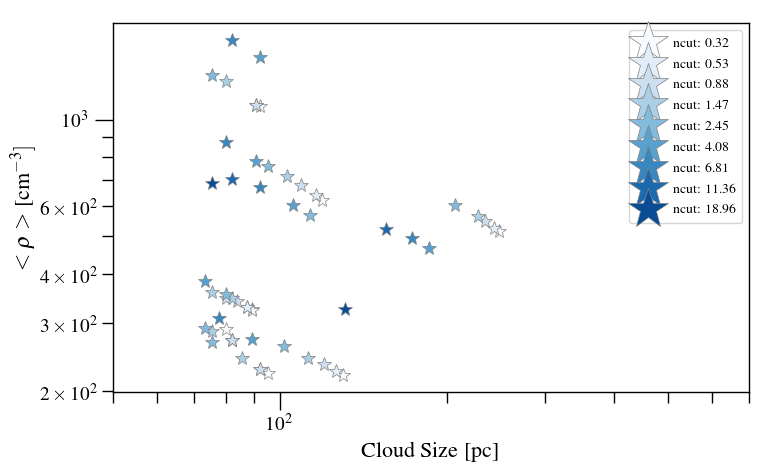
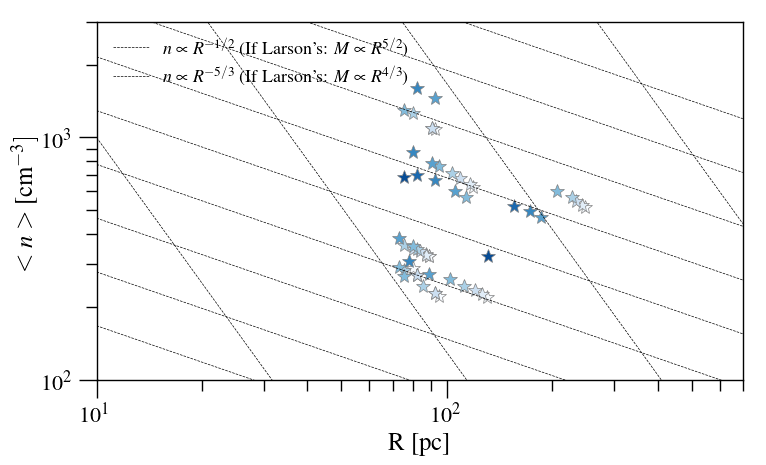
revisde

diff --git a/WRITEUP/ms.tex b/WRITEUP/ms.tex
@@ -57,28 +57,34 @@
 
 \begin{abstract}
 %mm rearranged sentence
-We study the properties of molecular cloud complexes (MCCs) in a cosmological zoom-in simulation of a
-prototypical galaxy (``\flower'') at redshift $z\simeq 6$.
+We study the properties of molecular cloud complexes (MCCs) using cosmological zoom-in simulation of a
+$z\simeq 6$ prototypical galaxy (``\flower'').
 %
-We identify MCCs using an H$_2$ density-based clump finder, and compare their mass, size, velocity dispersion, gas surface density, and virial parameter ($\alpha_{\rm vir}$) with those observed in nearby and \z$\lesssim 2$ galaxies.
+We identify MCCs using an H$_2$ density-based clump finder, and compare their mass, size, velocity dispersion, gas surface density, and virial parameter 
+to \obs.
 %
-In \flower, MCC masses are in the range $10^{5.5-8.5}$\,\Msun, and have sizes $R\lesssim200$\,pc. Their velocity dispersion and gas surface density are systematically higher than those observed in nearby galaxies, but comparable to starburst galaxies.
-%
-We identify gravitationally unstable MCCs both via an effective, two-component Toomre $Q_{\rm eff}$ parameter
-%mm (gas+stars),
-    taking into account both gas and stars,
-and by using a more observationally accessible $\alpha_{\rm vir}$ analysis. We find that MCCs in the main disk of \flower are globally stable, but their internal substructures have low $\alpha_{\rm vir}$ and $Q_{\rm eff}$ values, indicative of
-%mm
-    instability to gravitational
+In \flower, MCC masses are in the range of $10^{5.5-8.5}$\,\Msun, with sizes $R\lesssim200$\,pc. 
+% 
+We identify gravitationally unstable MCCs both via Toomre $Q_{\rm eff}$ analysis and
+the more observationally accessible virial parameter ($\alpha_{\rm vir}$) analysis. 
+MCCs in the main disk of \flower are globally stable, but their internal substructures have low $\alpha_{\rm vir}$ and $Q_{\rm eff}$ values, indicative of
+instability to % gravitational 
 collapse.
 %
-%Our results suggest that the more massive and bigger MCs compared to the Milky Way manifest from the
-%higher gas mass fraction, surface density, and velocity dispersion.
-% , which together sets the scale for fragmentation.
-\AF{Abstract is a bit thin. Revise at the end}
-High resolution imaging of the first galaxies with the Atacama Large (sub-)Millimeter Array (ALMA) and the Next Generation Very Large Array (ngVLA) can furnish
-%mm scrutinizing
-data to test our findings and shed light on \SF since the cosmic dark ages.
+Their velocity dispersion and gas surface density are systematically higher than those observed in nearby galaxies, but comparable to starburst galaxies.
+% 
+We show that large-scale rotation is an important contributor to the velocity dispersion of MCCs, even in the highly disturbed phase of \flower, posing 
+a challenge to the interpretation of molecular gas dynamics in \highz galaxies in the literature.
+% Thus, velocity dispersions measured on similar scales (even down to 40\,pc) should not be taken as a direct 
+% evidence that \highz molecular gas are intrinsically more turbulent than the local ISM, 
+% unless contributions from bulk motions are properly accounted for.
+% 
+%Close resemblance of $Q_{\rm eff}$ and $Q_{\star}$ maps illustrates the importance of accounting for stellar contribution and disk thickness when 
+%examining the stability of molecular gas structures, especially in relatively evolved and enriched systems at high redshift 
+%that are preferentially being observed now.
+% 
+High resolution imaging of the first galaxies with the Atacama Large (sub-)Millimeter Array (ALMA) and the Next Generation Very Large Array (ngVLA) on
+$\lesssim$40\,pc are necessary to shed light on the star-forming gas dynamics since the cosmic dark ages.
 \end{abstract}
 \keywords{methods: data analysis --
           galaxies: high-redshift --
@@ -610,8 +616,6 @@ where we adopt $\mu = 2.5$ as the mean molecular weight.
 We show in \Fig{MR} the size-mass relation of the MCCs of \flower compared to observational data of molecular clouds associated with massive \SF in the
 Milky Way \citep{Beuther02a, Mueller02a, Hill05a, Motte07a} and an empirical relation obtained for massive \SF based on Milky Way clouds ($<$10\,\Msun; \citealt{Kauffmann10b, Kauffmann10c} and references therein): $M \gtrsim 870(R/{\rm pc})^{4/3} M_\odot$.
 Motivated by \obs, we overplot lines of constants $A_V$ in the same plot.
-As shown in the figure, MCCs of \flower lie along the locus of $A_V \simeq 8.9$ clouds observed by
-\citet{Lombardi10a} in the MW.
 Further discussions on the interpretation of this is provided in \Sec{MR}.
 %
 %The values of $A_V$ inferred from http://adsabs.harvard.edu/abs/2017MNRAS.471.5018F
@@ -680,8 +684,8 @@ for the virial parameter, where the most relevant phases are shown in \Fig{alpha
 
 \subsection{Comparing MCC Observable Quantities to Observations} \label{sec:diss1}
 
-In this section, we compare the observable quantities of MCCs obtained from the simulations (e.g., $\sigma$, $R$, $M_{\rm gas}$,
-$\Sigma{\rm gas}$) with those of molecular gas structures from \obs at.
+In this section, we compare the observable quantities of MCCs obtained from the simulations (e.g., $\sigma_{\rm gas}$, $R$, $M_{\rm gas}$,
+$\Sigma_{\rm gas}$) with those of molecular gas structures from \obs at.
 Excluding the biggest MCC identified in each evolutionary stage (i.e., the top right cluster of points in the
 linewidth-size relation of \Fig{larsons_single} and the top left panel of \Fig{alpha16-28}), which correspond to
 the main disk of \flower, the MCCs of \flower have dynamics largely similar to those observed in
@@ -689,10 +693,10 @@ $z$\ssim2 spatially resolved studies of gas-rich star-forming
 galaxies, in terms of their velocity dispersions, sizes, and gas
 surface densities (\Fig{larsons_single}; see e.g.,
 \citealt{Swinbank11a}), with sizes of the order of $R\simeq$\,100\,pc
-and velocity dispersions of $\sigma\simeq$\,20$-$80\,\kms.
+and velocity dispersions of $\sigma_{\rm gas}\simeq$\,20$-$80\,\kms.
 Their velocity dispersions are also comparable to those observed in the inner
 Milky way and nearby gas-rich galaxies (e.g., M64; \citealt{Oka01a, Rosolowsky05a, Heyer09a}), which lies along the
-locus of $\sigma\propto R^{0.56}$.
+locus of $\sigma_{\rm gas}\propto R^{0.56}$.
 Such high velocity dispersions and surface densities can be explained partly because
 these MCCs are located in the nuclear regions of the galaxy, where the potential well is the deepest,
 and also from the injection of kinetic energy from recent
@@ -742,12 +746,6 @@ should not be taken as direct evidence that these structures at high redshifts a
 The local sound speed of all identified molecular complexes is typically much smaller than their non-thermal (turbulent) velocities,
 as non-thermal pressure dominates thermal pressure for dense gas \citep{Pallottini17b}, i.e. $c_s^2 \ll \sigma_{\rm NT}^2$.
  In particular, the Mach number averaged on the the MCCs distribution at the highest density threshold is $\mathcal{M} \simeq6$; this is consistent with the analysis done in \citep{Vallini18a}, that finds a global Mach number of $\mathcal{M} \sim 10$ for \flower.
- % 
- Note that the bulk velocity dispersion $\sigma_{\rm bulk}$ is typically comparable to the non-thermal term $\sigma_{\rm NT}$, 
-as the two are connected via the Euler equation, but this depends on the evolutionary stage of \flower (\Fig{vv}).
-%
-%\footnote{Velocity dispersions calculated from velocity field are comparable to those calculated from the pressure field indicating that contribution from shear is unlikely to dominate the velocity dispersions of the smaller MCCs identified, especially at the highest $n_{\rm ncut}$.\label{ftn:veldisp}}.
-
 % allss: 0.32
 % In [13]: print(get_Mach_all_clouds(ss11))
 %[10.62623949  3.10713402  7.0525831   3.336829   10.36052827  7.24157821
@@ -773,21 +771,21 @@ as the two are connected via the Euler equation, but this depends on the evoluti
 % see also e.g., test_brute/leaf_fields_ss16-28/18.96_10_fields/Mach_cloud-mass.png
 % This is consistent with the global analysis done on \flower by \citet{Vallini18a}.
 
-We compare the gas velocity dispersion from bulk motions versus turbulent motions for MCCs in the accreting
+
+We show the gas velocity dispersions from bulk motions versus turbulent motions for MCCs in the accreting
 and quiescent phase in \Fig{vv}. We note that \flower displays a disturbed morphology in the accreting phase
 but a disk-like morphology in the quiescent phase
 (see \Fig{MCC} and \Fig{MCC28}).
 Most MCCs in the accreting phase have turbulent velocity dispersions higher than the bulk motion velocity dispersions,
-whereas the opposite is true in the quiescent phase. In addition, the two velocity dispersion terms are of the same order of magnitude.
-
-We note that \citet{Behrendt16a} similarly concluded that large scale bulk motion may mimic turbulent velocity dispersion 
-due to beam smearing even though the self-rotation of each individual sub-MCCs is washed out.
-
+whereas the opposite is true in the quiescent phase. 
+In addition, the two velocity dispersion terms are of the same order of magnitude. % as the two are connected via the Euler equation
 {\em This indicates that gas velocity dispersions observed on similar physical scales and resolutions as presented here
 have an important contribution from large-scale rotation.} Hence, the linewidths observed in \highz molecular gas structures
 on these scales should {\em not} be taken as a direct evidence they are intrinsically more turbulent than those in the local ISM,
 and the comparison and interpretation of the dynamics of gas structures with local clouds using e.g., the Larson's relations is non-trivial.
-
+\citet{Behrendt16a} draw a similar conclusion using pc-scale resolution simulation: 
+large-scale bulk motions may mimic turbulent velocity dispersion due to  
+beam smearing, even though contributions due to self-rotation of each individual sub-MCCs is washed out within the beam.
 
 \subsection{Is the Mass-Size Relation an Observational Artifact?} \label{sec:MR}
 The MCCs of \flower lie below the locus of $A_V$\eq100\,mag followed
@@ -806,17 +804,14 @@ sufficient column density to form CO.
 In the mass-size relation plot (\Fig{MR}), the color of a given MCC darkens to the bottom-left direction as $n_{\rm cut}$ increases.
 This makes sense from simply the fact that smaller MCCs have smaller masses.
 However, what does it mean for them to lie on the same locus?
-% is it what Jen's proposed? Or is it's just a result of $\rho\propto M R^{-3}$ (and $\rho$ is independent of R)
-% and observational bias (selection effect due to projection in 2D, so $\rho \propto N_H R^{-1}$, where $N_H$ is a
-% constant due to gas tracer) (i.e., middle and bottom panels of Fig 9 in BM02)?
 
 The \citet{Kauffmann10c} relation suggests that regions with high-mass \SF follow
 an ``internal'' mass-size relation, where $M\propto R^{1.33}$.
-If this holds for the MCCs of \flower, an extrapolation of the \citet{Kauffmann10c} relation down to $\sim$1\,pc would correspond
-to structures with masses and sizes comparable to those of the cores found in regions of high-mass \SF.
-If constant column density (Larson's third law) is truly a fundamental properties of molecular clouds,
-one interpretation of this would be the MCCs of \flower are capable of high-mass \SF given that they share similar internal structures as
-regions of massive \SF.
+%If this holds for the MCCs of \flower, an extrapolation of the \citet{Kauffmann10c} relation down to $\sim$1\,pc would correspond
+%to structures with masses and sizes comparable to those of the cores found in regions of high-mass \SF.
+%If constant column density (Larson's third law) is truly a fundamental properties of molecular clouds,
+%one interpretation of this would be the MCCs of \flower are capable of high-mass \SF given that they share similar internal structures as
+%regions of massive \SF.
 %\MM{And is thus inconsistent with the variation in $\sigma^2/R$ with
 %  $\Sigma$.  Effectively, Larson's mass-size relation is a single
 %  point on that relationship, at the constant $\Sigma$ value.  }
@@ -825,7 +820,7 @@ with a certain tracer (e.g., \citealt{Ballesteros11}).
 That is, it is solely a result of $\rho\propto M R^{-3}$.
 For instance, \citet{Ballesteros02a} show that the density
 of clouds ($\rho$) is independent of their size ($R$) when one properly extract these quantities in three-dimensional space instead of
-two-dimensional space, as is done in \obs.
+two-dimensional space; the latter is done in \obs.
 When they project the clouds into two-dimensional space and measure the densities and sizes of clouds for a given
 line tracer, they find $\rho \propto R^{-1}$, which is unsurprising since $N_H$ is just a constant.
 They therefore argue that the mass-size relation is simply a result of $\rho\propto M R^{-3}$
@@ -835,22 +830,24 @@ observational studies). % where $\rho$ would be proportional to $R^{-1/2}$
 % naturally display a linear relationship in $\log M - \log R$ plot.
 
 % the widespread in density for a given R.
-We show the density-size relation ($\rho - R$) relation of MCCs of \flower in \Fig{rho}.
-The interpretation of this figure is not that MCCs with small $R$ are found at high $n_{\rm cut}$ and large $R$ at low $n_{\rm cut}$, nor is that
-the density of MCCs is independent of $R$. Rather, it is as we increase the density threshold $n_{\rm cut}$, MCCs break into smaller MCCs and
-form the cluster of points that are to the top left of the parent MCC identified at a lower density threshold.
-\DL{This is puzzling to me why we are seeing some really steep relationship between $\rho$ and $R$, almost $\rho \propto R^{-6}$
-even though we are identifying the structures in 3D just like what BM02 did.}
+We show the mass-weighted number density-size relation relation of MCCs of \flower in \Fig{n}.
+As we increase the density threshold $n_{\rm cut}$, MCCs break into smaller MCCs and
+form the cluster of points that are to the top left of the parent MCC identified at a lower density threshold. 
+Following \citet{Ballesteros02a}'s argument, we expect the density 
+of MCCs to be independent of the cloud size (since they are identified in 3D-space).
+On the other hand, if the Larson's third relation holds ($M \propto R^{x}$, where $x\in[4/3, 2.5]$; e.g., \citealt{Lombardi10a}),
+we expect the density to scale as $n\propto R^{x}$, where $x\in[-1/2, -5/3]$. 
+As shown in \Fig{n}, the density of MCCs scales inversely with the MCC size, which would support Larson's relation.
 
 \begin{figure}
 \centering
 \includegraphics[trim=0 0 0 0, clip, width=0.5\textwidth]{\figpath/weighted-density_size-pc_ss16}
-\caption{Density and size of MCCs in the accreting phase of \flower.
-At higher $n_{\rm cut}$, MCCs are broken into smaller MCCs and
+\caption{Mass-weighted gas density and size of MCCs in the accreting phase of \flower.
+At higher $n_{\rm cut}$ (darker color), MCCs are broken into smaller MCCs and
 form the cluster of points that are to the top left of the parent MCC identified at a lower density threshold. 
 See also \Fig{MR} for the corresponding mass-size relation of MCCs of \flower. 
-\AP{$\rho \rightarrow n$}
-\label{fig:rho}}
+For consistency of our notation throughout this paper, we show $n$ on the y-axis for density.
+\label{fig:n}}
 \vspace{0.5em}
 \end{figure}
 
@@ -967,13 +964,13 @@ and their temporal evolution using the state-of-the-art cosmological zoom-in sim
 which include a chemical network to determine the formation of molecular hydrogen, heating and cooling of the ISM by
 UV radiation and metal lines, and detailed stellar feedback.
 Properties of \flower are briefly summarized in \Sec{sim}.
-We use a three-dimensional clump-finding algorithm to identify MCCs and their sub-structures.
+We use a three-dimensional clump-finding algorithm to identify MCCs.
 We decompose the molecular structures into non-overlapping objects by identifying a set of
-density contours with varying cutoff densities at multiple evolutionary stages.
+density contours with varying densities at multiple evolutionary stages.
 Most notably, the accreting phase, starburst phase, and quiescent phase.
 We extract properties such as mass, size, Mach number, velocity
 dispersion, gas surface density, and virial parameter ($M_{\rm gas}, R, \mathcal{M},
-\sigma, \Sigma_{\rm gas}, \alpha_{\rm vir}$) for each MCC and perform a Toomre-$Q$ stability analysis on \flower.
+\sigma_{\rm gas}, \Sigma_{\rm gas}, \alpha_{\rm vir}$) for each MCC and perform a Toomre-$Q$ stability analysis on \flower.
 
 
 The sizes of MCCs are dependent on the choice of $n_{\rm cut}$,
@@ -988,7 +985,7 @@ reported in idealized closed-box isolated galaxy simulations done at higher reso
 However, the IGM and merger and accretion histories are not properly modeled in such simulations.
 That said, the similar mass range found in MCCs of \flower\ is
 reassuring --- our results are not far off despite the resolution limit ($l_{\rm cell}\simeq$\,30\,pc).
-On the other hand, the gas velocity dispersion $\sigma$ is rather insensitive to the adopted density threshold.
+On the other hand, the gas velocity dispersion $\sigma_{\rm gas}$ is rather insensitive to the adopted density threshold.
 
 We compare several observable quantities that reflect the dynamics of MCCs in \flower to those
 observed in the Milky Way disk, the Galactic center, and
@@ -998,7 +995,7 @@ This comparison is done for different evolutionary stages of \flower.
 MCCs of \flower are found to have velocity dispersion and gas surface density systematically higher than
 Milky Way clouds regardless of the density threshold $n_{\rm cut}$ adopted.
 These MCCs are, in fact, highly supersonic (with high Mach numbers).
-Their velocity dispersions are comparable to those observed in $z$\ssim2 starburst galaxies ($\sigma\simeq200$\,\kms); however,
+Their velocity dispersions are comparable to those observed in $z$\ssim2 starburst galaxies ($\sigma_{\rm gas}\simeq200$\,\kms); however,
 comparing the velocity dispersions of MCCs from bulk motions versus turbulence
 indicates that large-scale rotation is an important contributor, even in the
 accreting phase of \flower, which displays a highly disturbed morphology.
@@ -1054,9 +1051,11 @@ This means that caution should be taken when interpreting observational data,
 albeit the impressive resolution and sensitivity that are unprecedented.
 %Careful consideration of large-scale motions is required
 %when interpreting the observed data in order to understand the origin of star formation activity in galaxies at EoR.
-It is thus currently unclear whether \highz molecular gas structures are truly intrinsically more turbulent than those in the local ISM.
-This will become clearer in the next few years as deeper and higher resolution imaging of
-molecular gas at \highz are observed with ALMA and NOrthern Extended Millimeter Array (NOEMA).
+Thus, with the resolution provided by existing data, it remains unclear whether \highz molecular gas structures 
+are truly intrinsically more turbulent than those in the local ISM.
+This picture will become clearer as deeper and higher resolution imaging of
+molecular gas at \highz are obtained with ALMA and NOrthern Extended Millimeter Array (NOEMA) in the next few years, and 
+potentially with the Next Generation VLA (ngVLA) in the 2030s.
 On the other hand, cosmological zoom-in simulations, such as \ncode{Serra}, while inherently limited in galaxy
 statistics and are subject to the sub-grid models adopted, serve as a useful tool for examining
 and making predictions on the morphology and dynamics of the molecular ISM of the first galaxies.
